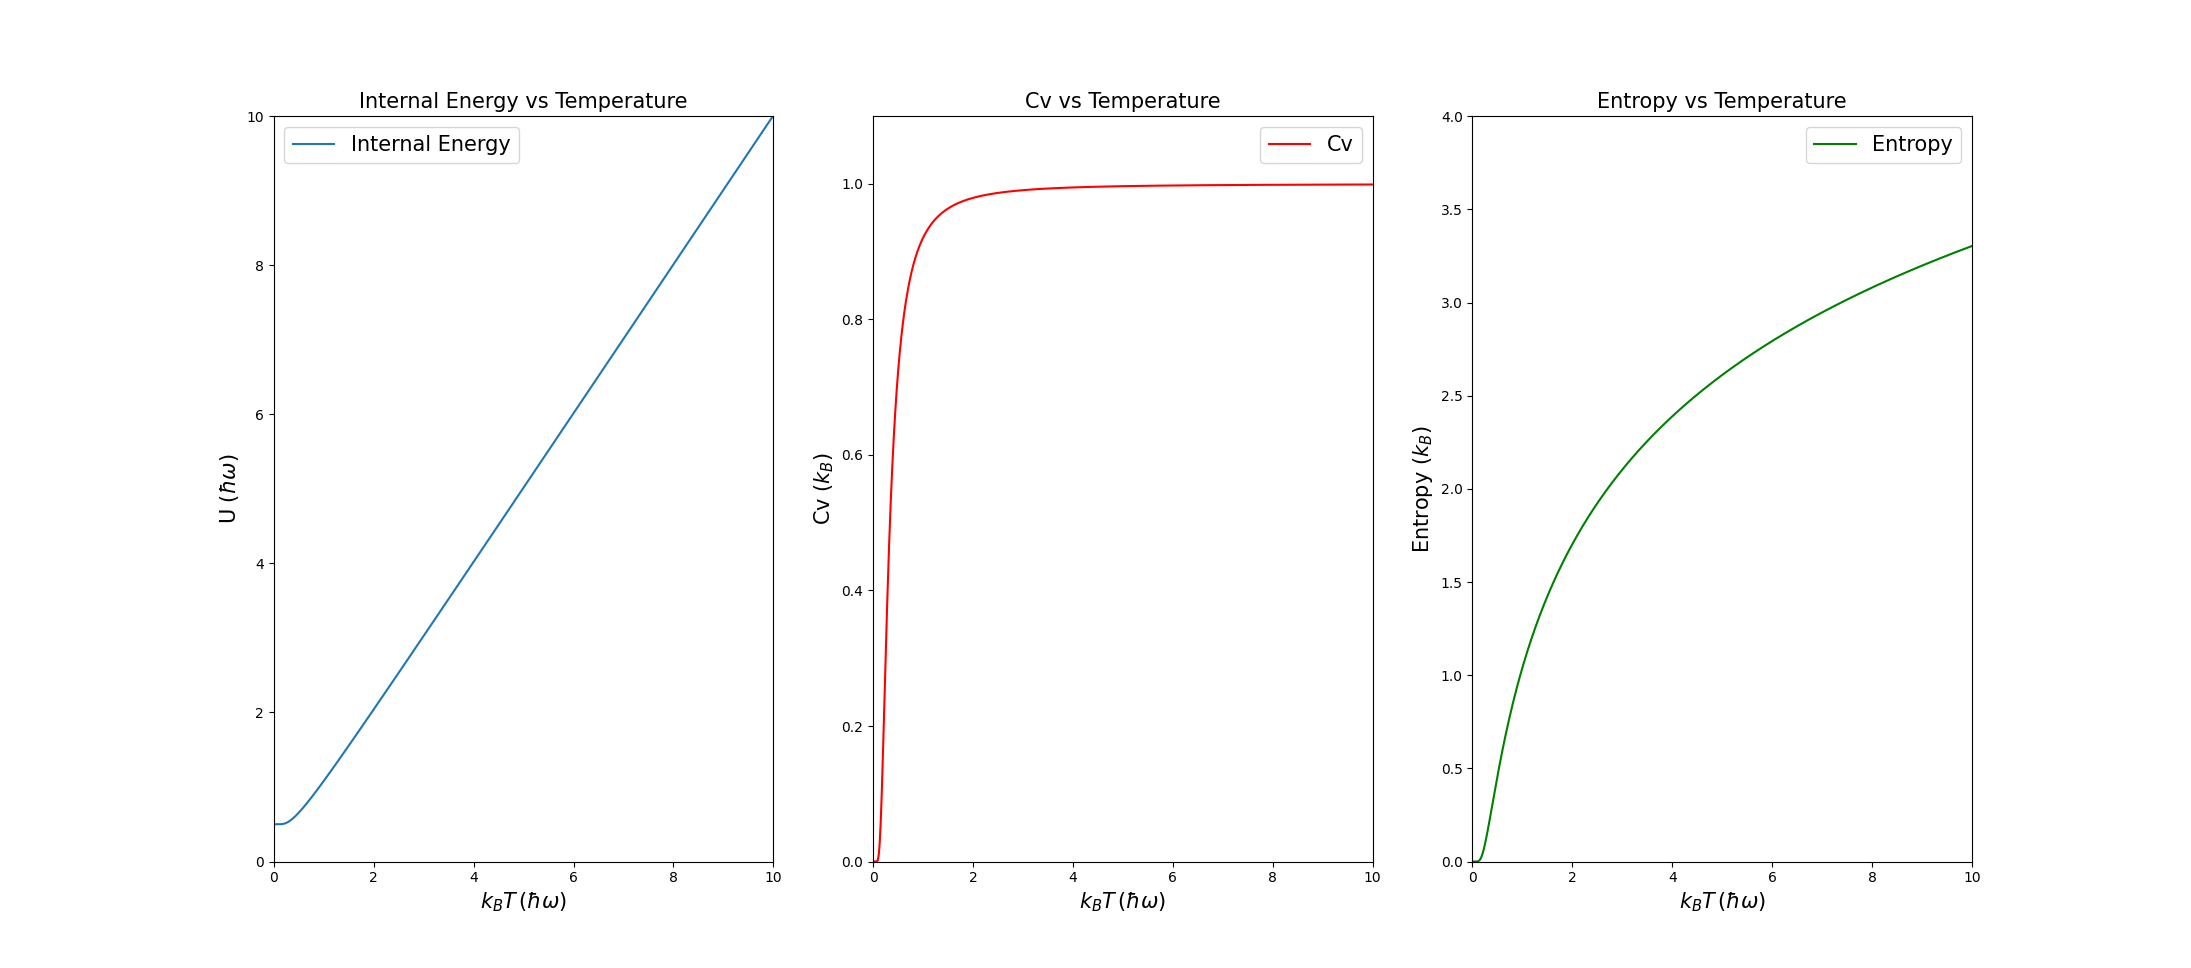
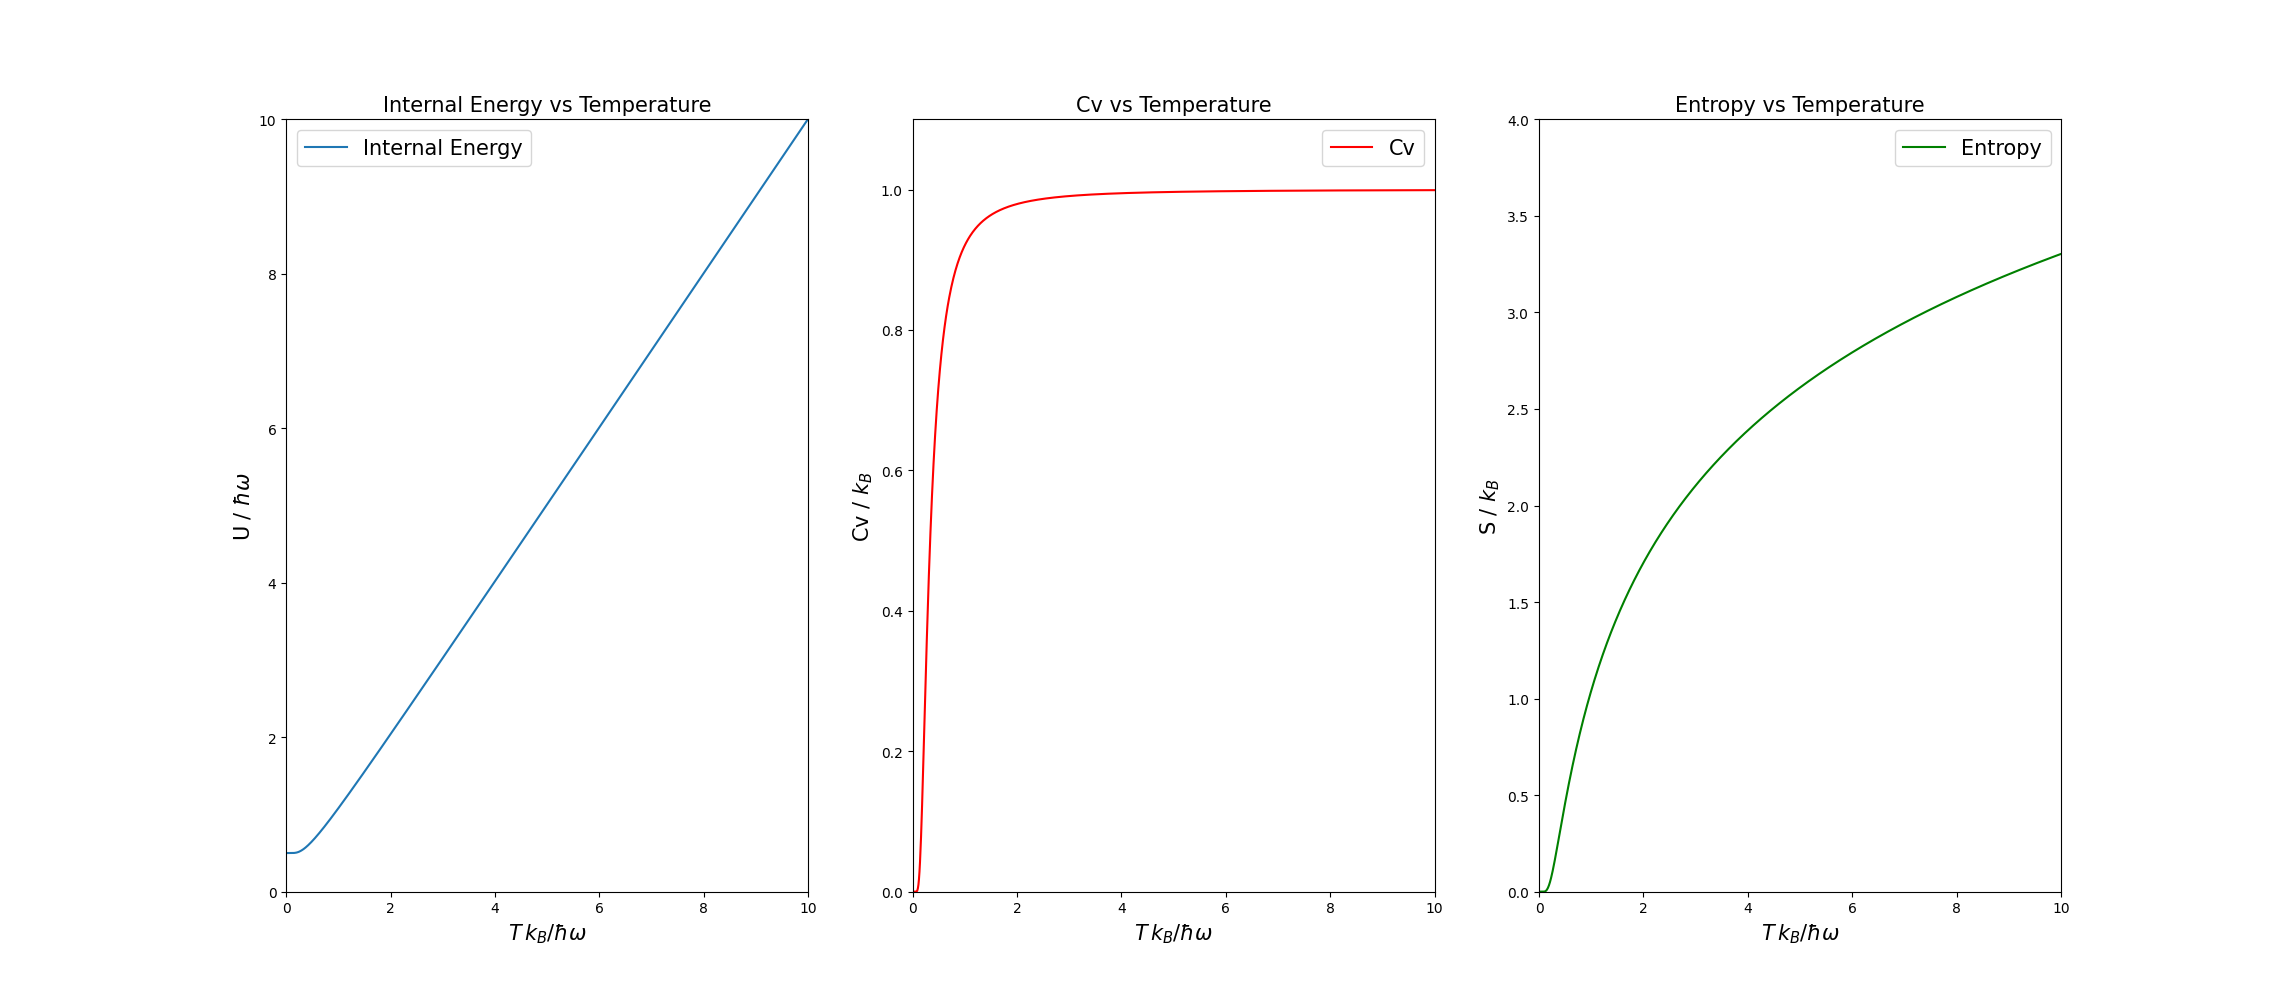
thermo

diff --git a/Thermo_Assignment_3/plot.py b/Thermo_Assignment_3/plot.py
@@ -52,13 +52,14 @@ ax[0].set_title('Internal Energy vs Temperature', fontsize=15)
 ax[1].set_title('Cv vs Temperature', fontsize=15)
 ax[2].set_title('Entropy vs Temperature', fontsize=15)
 
-ax[0].set_xlabel('$k_{B}T \, (\\hbar\\omega)$', fontsize=15)
-ax[1].set_xlabel('$k_{B}T \, (\\hbar\\omega)$', fontsize=15)
-ax[2].set_xlabel('$k_{B}T \, (\\hbar\\omega)$', fontsize=15)
 
-ax[0].set_ylabel('U ($\\hbar\\omega$)', fontsize=15)
-ax[1].set_ylabel('Cv ($k_{B}$)', fontsize=15)
-ax[2].set_ylabel('Entropy ($k_{B}$)', fontsize=15)
+ax[0].set_xlabel('$T \\, k_{B}  / \\hbar\\omega$', fontsize=15)
+ax[1].set_xlabel('$T \\, k_{B}  / \\hbar\\omega$', fontsize=15)
+ax[2].set_xlabel('$T \\, k_{B}  / \\hbar\\omega$', fontsize=15)
+
+ax[0].set_ylabel('U / $\\hbar\\omega$', fontsize=15)
+ax[1].set_ylabel('Cv / $k_{B}$', fontsize=15)
+ax[2].set_ylabel('S / $k_{B}$', fontsize=15)
 
 ax[0].set_xlim(0,10)
 ax[1].set_xlim(0,10)
